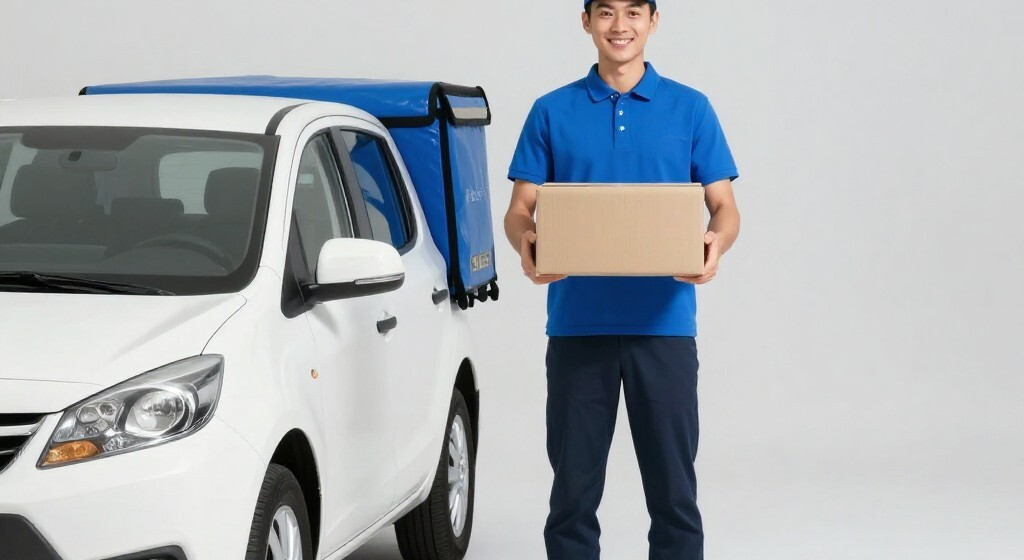
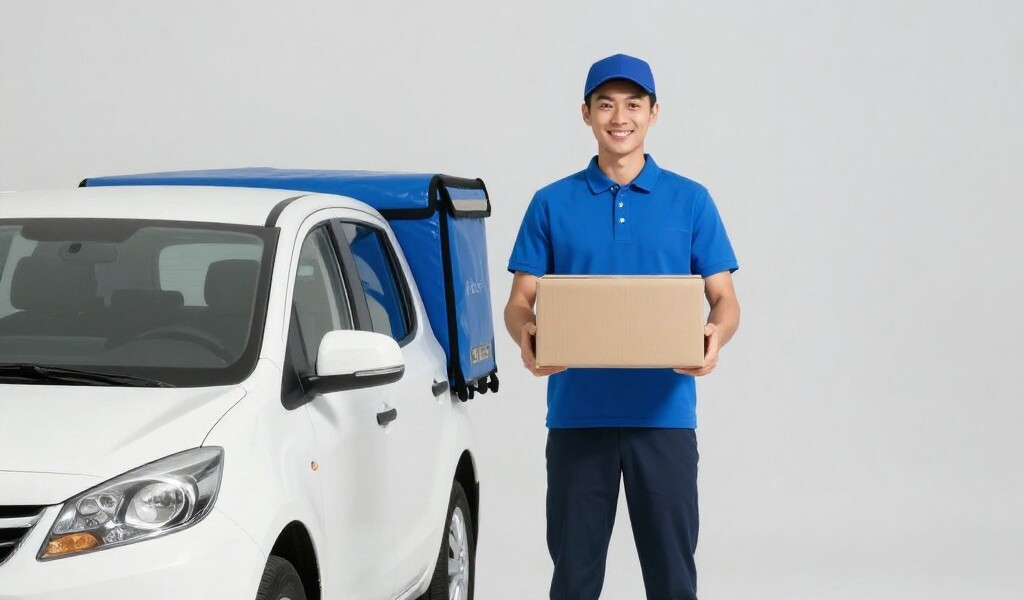
fix: увеличить лицо доставщика

diff --git a/src/pages/TariffsPage.tsx b/src/pages/TariffsPage.tsx
@@ -48,14 +48,15 @@ const TARIFFS = [
     pax: "посылки",
     image: "/tariff-order.jpg",
     icon: "Package",
+    objectTop: true,
   },
 ];
 
 export default function TariffsPage() {
   useSEO({
-    title: "Тарифы на трансфер и такси: Стандарт, Комфорт, Минивэн, Бизнес — цены за км",
+    title: "Тарифы на трансфер и такси: Стандарт, Комфорт, Бизнес, Минивэн, Доставка — цены за км",
     description:
-      "Тарифы на трансфер: Стандарт от 30 ₽/км, Комфорт, Бизнес, Минивэн до 7 мест. Фиксированная цена без накруток. Рассчитаем стоимость поездки при заказе.",
+      "Тарифы на трансфер и такси: Стандарт от 30 ₽/км, Комфорт, Бизнес, Минивэн до 7 мест и доставка посылок от 2000 ₽. Фиксированная цена без накруток, детское кресло бесплатно. Рассчитаем стоимость поездки при заказе.",
   });
 
   return (
@@ -74,6 +75,8 @@ export default function TariffsPage() {
                 alt={t.name}
                 loading="lazy"
                 className={`w-full h-full object-cover transition-transform duration-500 ${
+                  t.objectTop ? "object-top" : ""
+                } ${
                   t.flip
                     ? "scale-x-[-1] group-hover:scale-x-[-1.05] group-hover:scale-y-[1.05]"
                     : "group-hover:scale-105"

diff --git a/src/pages/RoutesPage.tsx b/src/pages/RoutesPage.tsx
@@ -7,9 +7,9 @@ import { ROUTES, REGIONS, getRegion, type Region } from "@/data/routesData";
 
 export default function RoutesPage() {
   useSEO({
-    title: "Направления трансфера: Краснодар, Сочи, Анапа, Геленджик — цены и время в пути",
+    title: "Направления трансфера: Краснодар, Сочи, Анапа, Геленджик, Крым — цены и время в пути",
     description:
-      "Популярные направления трансфера по Краснодарскому краю и побережью: Краснодар — Сочи, Анапа, Геленджик, Новороссийск. Время в пути и цены от перевозчика. Закажите машину онлайн.",
+      "Трансфер по Краснодарскому краю, к морю и в Крым через Крымский мост: Краснодар — Сочи, Анапа, Геленджик, Новороссийск, Симферополь, Ялта. Трансфер в аэропорт, междугородние поездки и доставка. Время в пути и цены от перевозчика, заказ онлайн.",
   });
 
   const [query, setQuery] = useState("");
